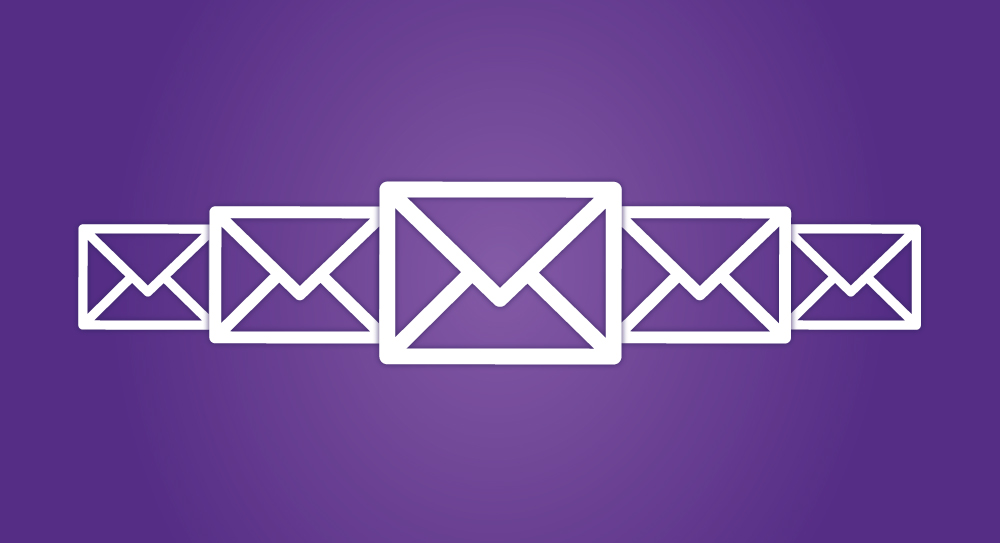
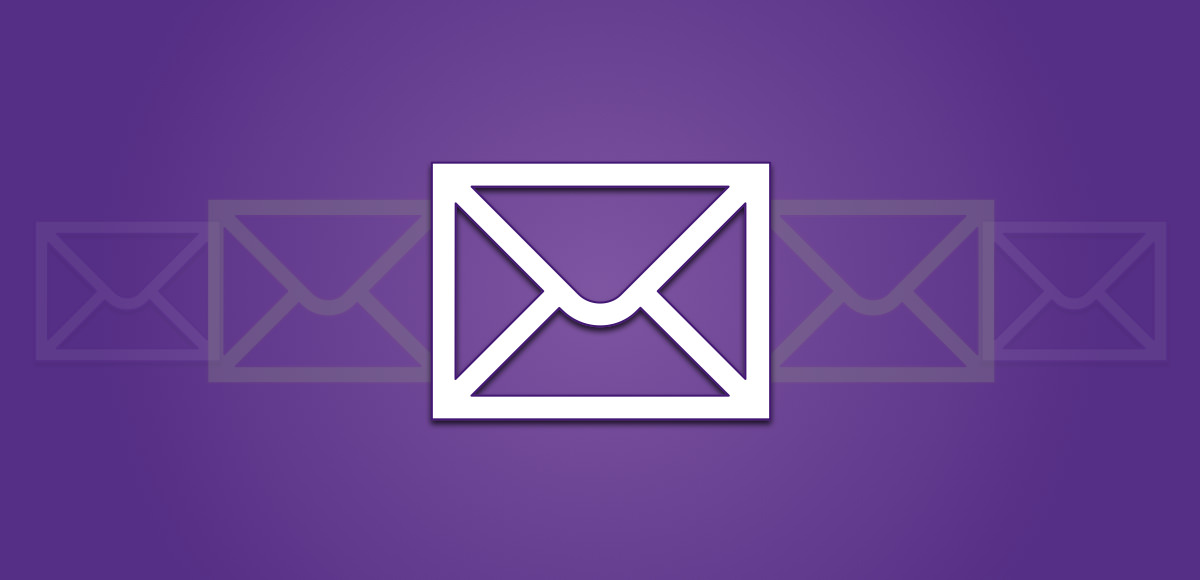
Visual Tweaks and CDN Testing
Updated icons and tile covers.
Fixed several formatting issues with tiles.
Blurred background to make it less intrusive.
Added CDN Test drvier for command line testing.

Changed region(s): [[0.062, 0.2652, 0.93, 0.7366]]

diff --git a/config/tiles.php b/config/tiles.php
@@ -74,16 +74,16 @@ $tile[] = array("type"=>"simple","group"=>0,"x"=>0,"y"=>1,'width'=>2,'height'=>1
 
 /* GROUP 1 Campaigns*/
 
-$tile[] = array("type"=>"slide","group"=>1,"x"=>0,"y"=>0,'width'=>2,'height'=>1,"background"=>"#990000","url"=>"campaigns/campaigns.php",
+$tile[] = array("type"=>"slide","group"=>1,"x"=>0,"y"=>0,'width'=>2,'height'=>1,"background"=>"#BD0114","url"=>"campaigns/campaigns.php",
 	"text"=>"<h3 style='color:#FFFFFF;'>All Campaigns</h3>","img"=>"img/Campaigns_banner.jpg","imgSize"=>1,
 	"slidePercent"=>0.40,
 	"slideDir"=>"left", // can be up, down, left or right
 	"doSlideText"=>true,"doSlideLabel"=>true,
-	"labelText"=>"<div style='color:#FFFFFF;'>View</div>","labelColor"=>"#CC0000","labelPosition"=>"top",
+	"labelText"=>"<div style='color:#FFFFFF;'>View</div>","labelColor"=>"#BD0114","labelPosition"=>"top",
 );
 
 $tile[] = array("type"=>"simple","group"=>1,"x"=>2,"y"=>0,'width'=>1,'height'=>1,"background"=>"#990000","url"=>"../panels/campaigns/addcampaign.php",
-		"title"=>"<div style='color:#FFFFFF;'>New</div>","text"=>"<div style='color:#FFFFFF;'>Create Campaign</div>");
+		"title"=>"<div style='color:#FFFFFF;'>Create New Campaign</div>","text"=>"<div style='color:#FFFFFF;'></div>");
 
 //Get all of the upcomming campaign releases
 
@@ -133,26 +133,26 @@ $tile[] = array("type"=>"flip","group"=>1,"x"=>2,"y"=>1,'width'=>1,'height'=>1,"
 */	
 /* GROUP 2 Content*/
 
-$tile[] = array("type"=>"slide","group"=>2,"x"=>0,"y"=>0,'width'=>2,'height'=>1,"background"=>"#990099","url"=>"email/email.php",
-		"text"=>"<h3 style='color:#FFFFFF;'>All Email</h3>","img"=>"img/email-marketing.jpg","imgSize"=>1,
+$tile[] = array("type"=>"slide","group"=>2,"x"=>0,"y"=>0,'width'=>2,'height'=>1,"background"=>"#7033BE","url"=>"email/email.php",
+		"text"=>"<h3 style='color:#FFFFFF;'>All <br> Email</h3>","img"=>"img/email-marketing.jpg","imgSize"=>1,
 		"slidePercent"=>0.40,
 		"slideDir"=>"left", // can be up, down, left or right
-		"doSlideText"=>false,"doSlideLabel"=>false,
-		"labelText"=>"<div style='color:#FFFFFF;'>View</div>","labelColor"=>"#990099","labelPosition"=>"top");
+		"doSlideText"=>true,"doSlideLabel"=>true,
+		"labelText"=>"<div style='color:#FFFFFF;'>View</div>","labelColor"=>"#7033BE","labelPosition"=>"top");
 
-$tile[] = array("type"=>"simple","group"=>2,"x"=>2,"y"=>0,'width'=>1,'height'=>1,"background"=>"#990099","url"=>"../panels/email/addemail.php",
-		"title"=>"<div style='color:#FFFFFF;'>New</div>","text"=>"<div style='color:#FFFFFF;'>Create Email</div>");
+$tile[] = array("type"=>"simple","group"=>2,"x"=>2,"y"=>0,'width'=>1,'height'=>1,"background"=>"#553183","url"=>"../panels/email/addemail.php",
+		"title"=>"<div style='color:#FFFFFF;'>Create New <br> Email</div>","text"=>"<div style='color:#FFFFFF;'></div>");
 
-$tile[] = array("type"=>"simple","group"=>2,"x"=>0,"y"=>1,'width'=>1,'height'=>1,"background"=>"#336699","url"=>"../panels/content/addcontent.php",
-		"title"=>"<div style='color:#FFFFFF;'>New</div>","text"=>"<div style='color:#FFFFFF;'>Create Content</div>");
+$tile[] = array("type"=>"simple","group"=>2,"x"=>0,"y"=>1,'width'=>1,'height'=>1,"background"=>"#282E6B","url"=>"../panels/content/addcontent.php",
+		"title"=>"<div style='color:#FFFFFF;'>Create New Content</div>","text"=>"<div style='color:#FFFFFF;'></div>");
 
 
-$tile[] = array("type"=>"slide","group"=>2,"x"=>1,"y"=>1,'width'=>2,'height'=>1,"background"=>"#336699","url"=>"content/content.php",
+$tile[] = array("type"=>"slide","group"=>2,"x"=>1,"y"=>1,'width'=>2,'height'=>1,"background"=>"#0017AC","url"=>"content/content.php",
 		"text"=>"<h3 style='color:#FFFFFF;'>All Content</h3>","img"=>"img/New_Content.jpg","imgSize"=>1,
 		"slidePercent"=>0.40,
 		"slideDir"=>"left", // can be up, down, left or right
-		"doSlideText"=>false,"doSlideLabel"=>false,
-		"labelText"=>"<div style='color:#FFFFFF;'>View</div>","labelColor"=>"#336699","labelPosition"=>"top");
+		"doSlideText"=>true,"doSlideLabel"=>true,
+		"labelText"=>"<div style='color:#FFFFFF;'>View</div>","labelColor"=>"#0017AC","labelPosition"=>"top");
 
 
 

diff --git a/panels/content/cdn/CDNTestDriver.php b/panels/content/cdn/CDNTestDriver.php
@@ -1,0 +1,45 @@
+
+<?php
+require 'vendor/autoload.php';
+require 'CDN.php';
+
+$testCase = '5';
+$contentPath = 'images/test.jpg';
+$contentName = basename($contentPath);
+
+switch($testCase){
+	case '1':
+	//CREATE CONTAINER
+	//DEFAULT CONTAINER NAME = 'emvi'
+	CreateContainer();
+	echo "Container Created";
+	break;
+
+	case '2':
+	//DELETE CONTAINER
+	//DEFAULT CONTAINER NAME = 'emvi'
+	DeleteContainer();
+	echo "Container Deleted";
+	break;
+
+	case '3':
+	//UPLOAD CONTENT
+	//FILENAME EXTRACTED FROM PATH, DEFAULT CONTAINER NAME = 'emvi'
+	echo "UPLOAD URL:" . UploadContent($contentPath, 'test4.jpg');
+	break;
+
+	case '4':
+	//DELETE CONTENT
+	//DEFAULT CONTAINER NAME = 'emvi'
+	DeleteContent($contentName);
+	echo "CONTENT DELETED";
+	break;
+
+	case '5':
+	//GET CONTENT URL
+	//DEFAULT CONTAINER NAME = 'emvi'
+	echo "CONTENT URL:" .  GetContentURL($contentName);
+	break;
+}
+
+?>

diff --git a/config/main-nav.php b/config/main-nav.php
@@ -36,7 +36,7 @@ $user = mysql_fetch_assoc($query);
 
 if ($user['userRole'] == 1){
 	echo "<a rel=\"group6\">";
-		echo "<img src=\"img/icons/AdminIcon.jpg\" alt=\"Administration\"/>";
+		echo "<img src=\"img/icons/AdminIcon.png\" alt=\"Administration\"/>";
 		echo "Administration";
 	echo "</a>";
 } 
